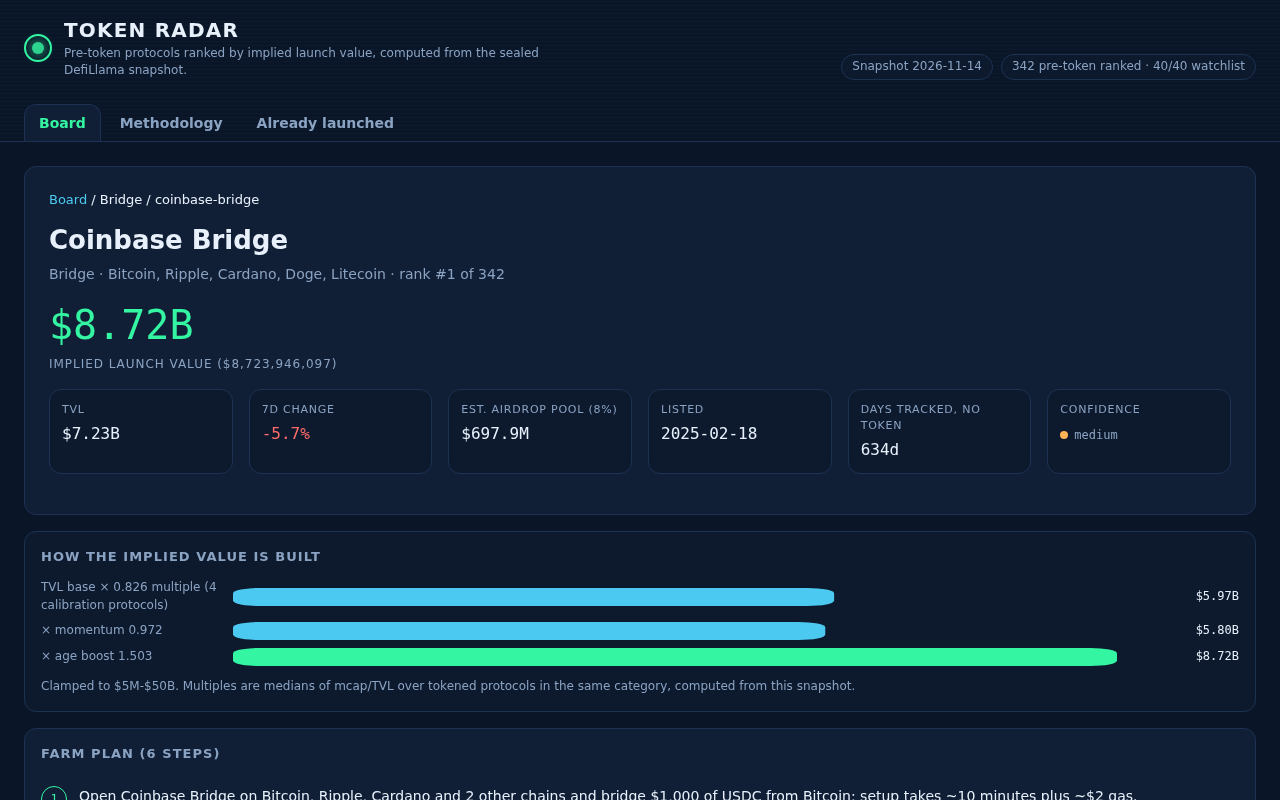
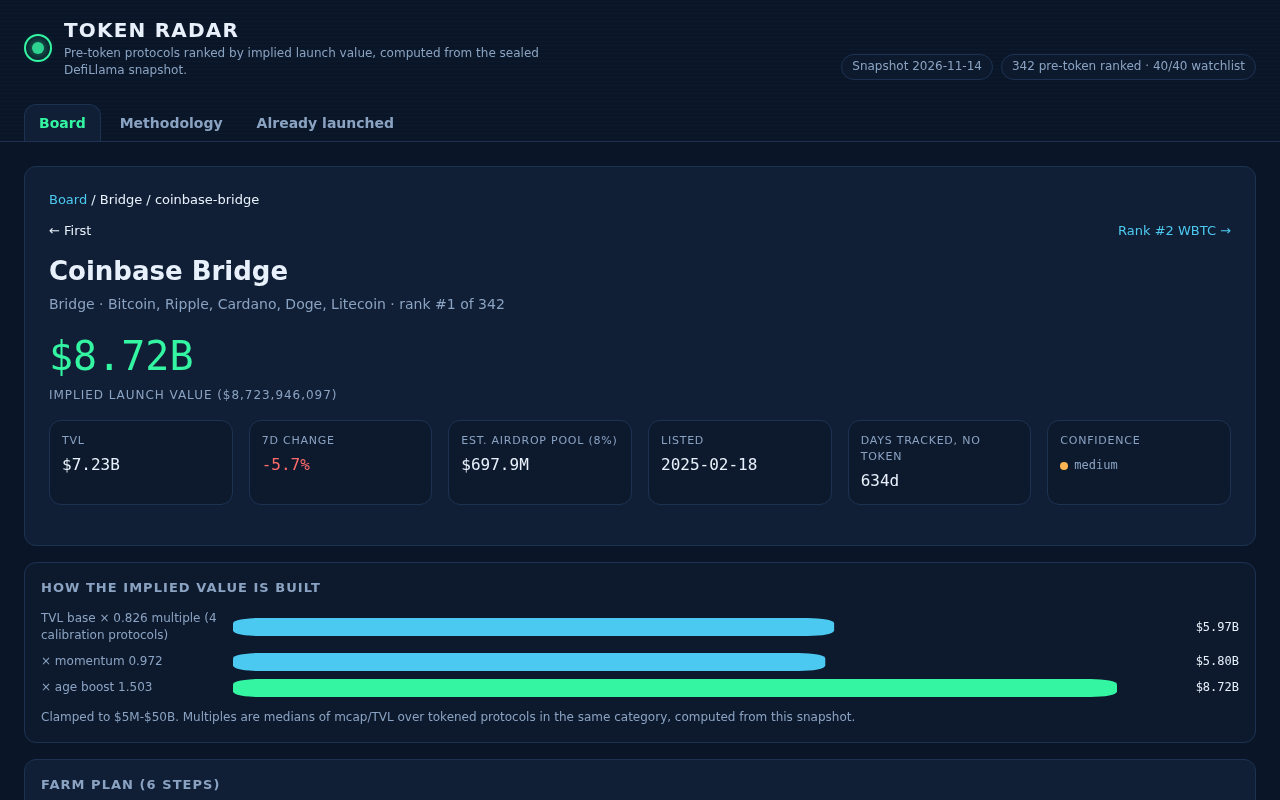
phase 2+3 polish: stdout top-5/confidence summary, radar stats, prev/next nav, keyboard search, final screenshots

diff --git a/dashboard/app.js b/dashboard/app.js
@@ -32,6 +32,24 @@
     D.board_size + ' pre-token ranked · ' + D.watchlist_covered + '/' + D.watchlist_size + ' watchlist';
   document.getElementById('foot-source').textContent = 'Source: ' + D.source;
 
+  // ---------- keyboard ----------
+  document.addEventListener('keydown', function(e) {
+    if (e.key === '/') {
+      var q = document.getElementById('f-q');
+      if (q && document.activeElement !== q) {
+        e.preventDefault();
+        q.focus();
+      }
+    } else if (e.key === 'Escape') {
+      var q = document.getElementById('f-q');
+      if (q && document.activeElement === q) {
+        q.value = '';
+        q.dispatchEvent(new Event('input'));
+        q.blur();
+      }
+    }
+  });
+
   // ---------- routing ----------
   function parseHash() {
     var h = location.hash || '#/board';
@@ -127,6 +145,7 @@
     var filters =
       '<div class="filters">' +
       '<input type="search" id="f-q" placeholder="Search name or slug" value="' + esc(st.q) + '" aria-label="Search">' +
+      '<span class="chip">/ to search</span>' +
       '<select id="f-cat" aria-label="Category">' + catOpts + '</select>' +
       '<select id="f-chain" aria-label="Chain">' + chainOpts + '</select>' +
       '<select id="f-tvl" aria-label="Minimum TVL">' + tvlOpts + '</select>' +
@@ -241,9 +260,17 @@
 
   function renderDetail(slug) {
     setNav('board');
-    var r = null;
-    for (var i = 0; i < D.rows.length; i++) if (D.rows[i].slug === slug) { r = D.rows[i]; break; }
+    var r = null, idx = -1;
+    for (var i = 0; i < D.rows.length; i++) if (D.rows[i].slug === slug) { r = D.rows[i]; idx = i; break; }
     if (!r) { view.innerHTML = '<div class="panel"><p>Unknown protocol slug: ' + esc(slug) + '</p><p class="backrow"><a href="#/board">Back to the board</a></p></div>'; return; }
+    
+    var prev = idx > 0 ? D.rows[idx - 1] : null;
+    var next = idx < D.rows.length - 1 ? D.rows[idx + 1] : null;
+    var nav = '<div class="nav-links">' +
+      (prev ? '<a href="#/protocol/' + esc(prev.slug) + '">← Rank #' + prev.rank + ' ' + esc(prev.name) + '</a>' : '<span>← First</span>') +
+      (next ? '<a href="#/protocol/' + esc(next.slug) + '">Rank #' + next.rank + ' ' + esc(next.name) + ' →</a>' : '<span>Last →</span>') +
+      '</div>';
+      
     var m = r.model || {};
     var base = m.base || 0, afterMom = base * (m.momentum || 1), afterAge = afterMom * (m.age_boost || 1);
     var max = Math.max(afterAge, r.implied_value_usd);
@@ -255,6 +282,7 @@
     view.innerHTML =
       '<div class="hero">' +
       '<div class="crumbs"><a href="#/board">Board</a> / ' + esc(r.category || '-') + ' / ' + esc(r.slug) + '</div>' +
+      nav +
       '<h2>' + esc(r.name) + wlTag(r) + '</h2>' +
       '<div class="sub">' + esc(r.category || '-') + ' · ' + esc((r.chains || []).join(', ')) + ' · rank #' + r.rank + ' of ' + D.rows.length + '</div>' +
       '<div class="big">' + fmtUSD(r.implied_value_usd) + '</div>' +
@@ -298,6 +326,11 @@
       '<p class="note">Every number is computed from the sealed snapshot at build time; nothing is hardcoded per protocol. ' +
       'Global fallback multiple: ' + D.global_median_multiple.toFixed(3) + ' (median over all tokened protocols with TVL ≥ $10M). ' +
       'Pre-token means the snapshot records no token: gecko_id and symbol are both empty.</p></div>' +
+      '<div class="panel"><h3>Board stats</h3>' +
+      '<ul><li>Q1 implied value: ' + fmtUSD(D.stats.q1_implied_usd) + '</li>' +
+      '<li>Median implied value: ' + fmtUSD(D.stats.median_implied_usd) + '</li>' +
+      '<li>Q3 implied value: ' + fmtUSD(D.stats.q3_implied_usd) + '</li>' +
+      '<li>Confidence: ' + D.stats.confidence_counts.high + ' High, ' + D.stats.confidence_counts.medium + ' Medium, ' + D.stats.confidence_counts.low + ' Low</li></ul></div>' +
       '<div class="panel"><h3>Category multiples (' + cats.length + ' categories)</h3>' +
       '<table class="plain"><thead><tr><th>Category</th><th class="num">Tokened with TVL ≥ $10M</th><th class="num">Median mcap/TVL</th><th>Basis</th></tr></thead><tbody>' +
       rows + '</tbody></table></div>' +

diff --git a/dashboard/app.css b/dashboard/app.css
@@ -53,9 +53,10 @@ table.board thead th{position:sticky;top:0;background:var(--panel2);color:var(--
 table.board thead th.num,table.board td.num{text-align:right;font-family:var(--mono);font-variant-numeric:tabular-nums}
 table.board thead th.sorted-asc::after{content:" ▲";color:var(--accent)}
 table.board thead th.sorted-desc::after{content:" ▼";color:var(--accent)}
+table.board thead th.sorted-asc,table.board thead th.sorted-desc{border-bottom:2px solid var(--accent)}
 table.board tbody td{padding:8px 12px;border-bottom:1px solid rgba(29,50,82,.5);white-space:nowrap}
 table.board tbody tr:nth-child(even){background:rgba(13,26,46,.55)}
-table.board tbody tr:hover{background:rgba(52,245,162,.07);cursor:pointer}
+table.board tbody tr:hover{background:rgba(52,245,162,.07);cursor:pointer;box-shadow:inset 2px 0 0 var(--accent)}
 .pos{color:var(--accent)} .neg{color:var(--red)}
 .namecell{font-weight:600}
 .wl{font-size:10px;border:1px solid var(--amber);color:var(--amber);border-radius:4px;padding:1px 4px;margin-left:6px;vertical-align:middle}
@@ -65,6 +66,7 @@ table.board tbody tr:hover{background:rgba(52,245,162,.07);cursor:pointer}
 
 .hero{background:var(--panel);border:1px solid var(--line);border-radius:12px;padding:24px;margin-bottom:16px}
 .hero .crumbs{margin-bottom:12px;font-size:13px}
+.hero .nav-links{display:flex;justify-content:space-between;margin-bottom:12px;font-size:13px}
 .hero h2{font-size:26px}
 .hero .sub{color:var(--dim);margin-top:4px}
 .hero .big{font-family:var(--mono);font-size:40px;color:var(--accent);margin:12px 0 2px}

diff --git a/lib/model.ts b/lib/model.ts
@@ -83,6 +83,13 @@ export interface CategoryMedianInfo {
   fallback: boolean;
 }
 
+export interface Stats {
+  q1_implied_usd: number;
+  median_implied_usd: number;
+  q3_implied_usd: number;
+  confidence_counts: { high: number; medium: number; low: number };
+}
+
 export interface RadarData {
   as_of: string;
   source: string;
@@ -95,6 +102,7 @@ export interface RadarData {
   total_implied_usd: number;
   global_median_multiple: number;
   category_medians: Record<string, CategoryMedianInfo>;
+  stats: Stats;
   rows: BoardRow[];
   live: LiveRow[];
 }
@@ -439,6 +447,17 @@ export function buildRadar(snapshot: Snapshot): { board: BoardRow[]; radar: Rada
 
   const totalImplied = board.reduce((sum, r) => sum + r.implied_value_usd, 0);
 
+  const vals = board.map((r) => r.implied_value_usd).sort((a, b) => a - b);
+  const stats: Stats = {
+    q1_implied_usd: vals[Math.floor(vals.length * 0.25)]!,
+    median_implied_usd: vals[Math.floor(vals.length * 0.5)]!,
+    q3_implied_usd: vals[Math.floor(vals.length * 0.75)]!,
+    confidence_counts: { high: 0, medium: 0, low: 0 },
+  };
+  for (const r of board) {
+    stats.confidence_counts[r.confidence]++;
+  }
+
   const radar: RadarData = {
     as_of: snapshot.as_of,
     source: snapshot.source,
@@ -451,6 +470,7 @@ export function buildRadar(snapshot: Snapshot): { board: BoardRow[]; radar: Rada
     total_implied_usd: totalImplied,
     global_median_multiple: globalMedian,
     category_medians: categoryMediansObj,
+    stats,
     rows: board,
     live,
   };

diff --git a/main.ts b/main.ts
@@ -83,5 +83,8 @@ writeFileSync(
 const totalImpliedB = (radar.total_implied_usd / 1e9).toFixed(2);
 process.stdout.write(
   `token radar: scored ${board.length} pre-token protocols (${snapshot.watchlist.length}/${snapshot.watchlist.length} watchlist covered), total implied value $${totalImpliedB}B, ${radar.live_size} live-token protocols set aside\n` +
+    `Top 5:\n` +
+    board.slice(0, 5).map(r => `  #${r.rank} ${r.name.padEnd(20)} $${(r.implied_value_usd/1e6).toFixed(1)}M`).join('\n') + `\n` +
+    `Confidence: high: ${radar.stats.confidence_counts.high}, medium: ${radar.stats.confidence_counts.medium}, low: ${radar.stats.confidence_counts.low}\n` +
     `token radar: output written to ${out}: board.json, data.js, dashboard/ (${dashFiles.length} files), screenshots/ (${shots.length} images), dossier.json\n`,
 );
